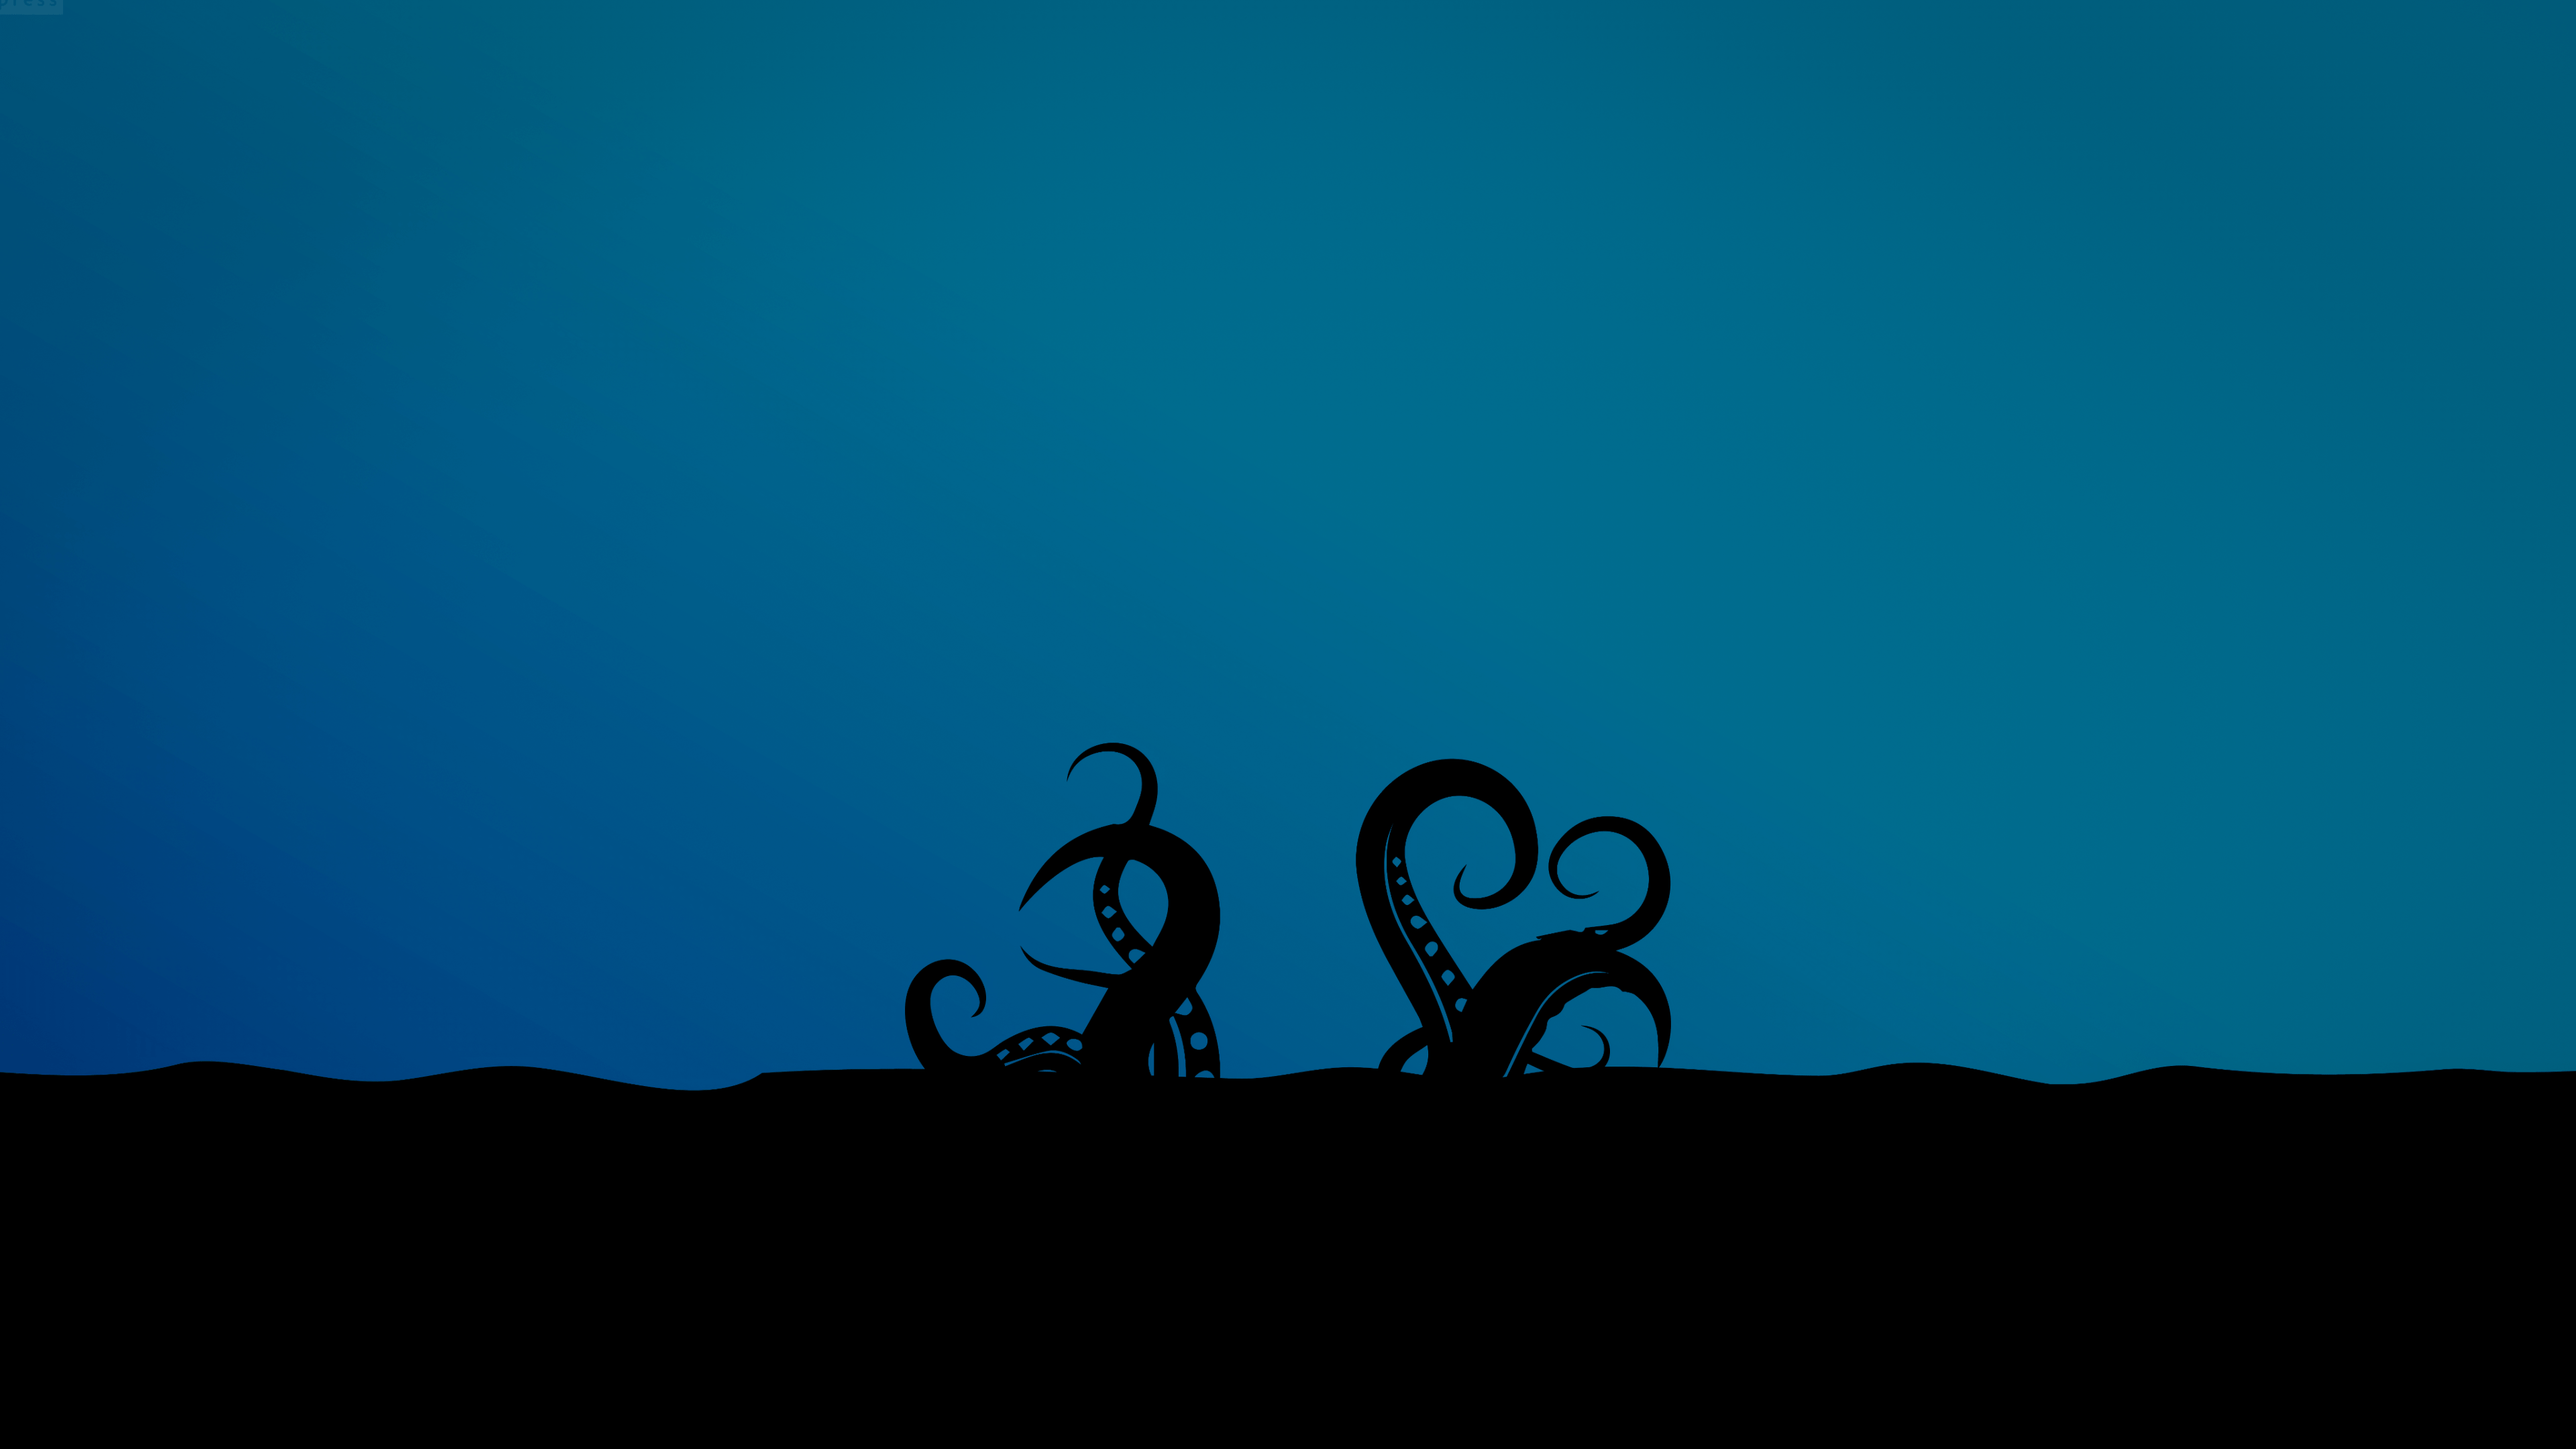
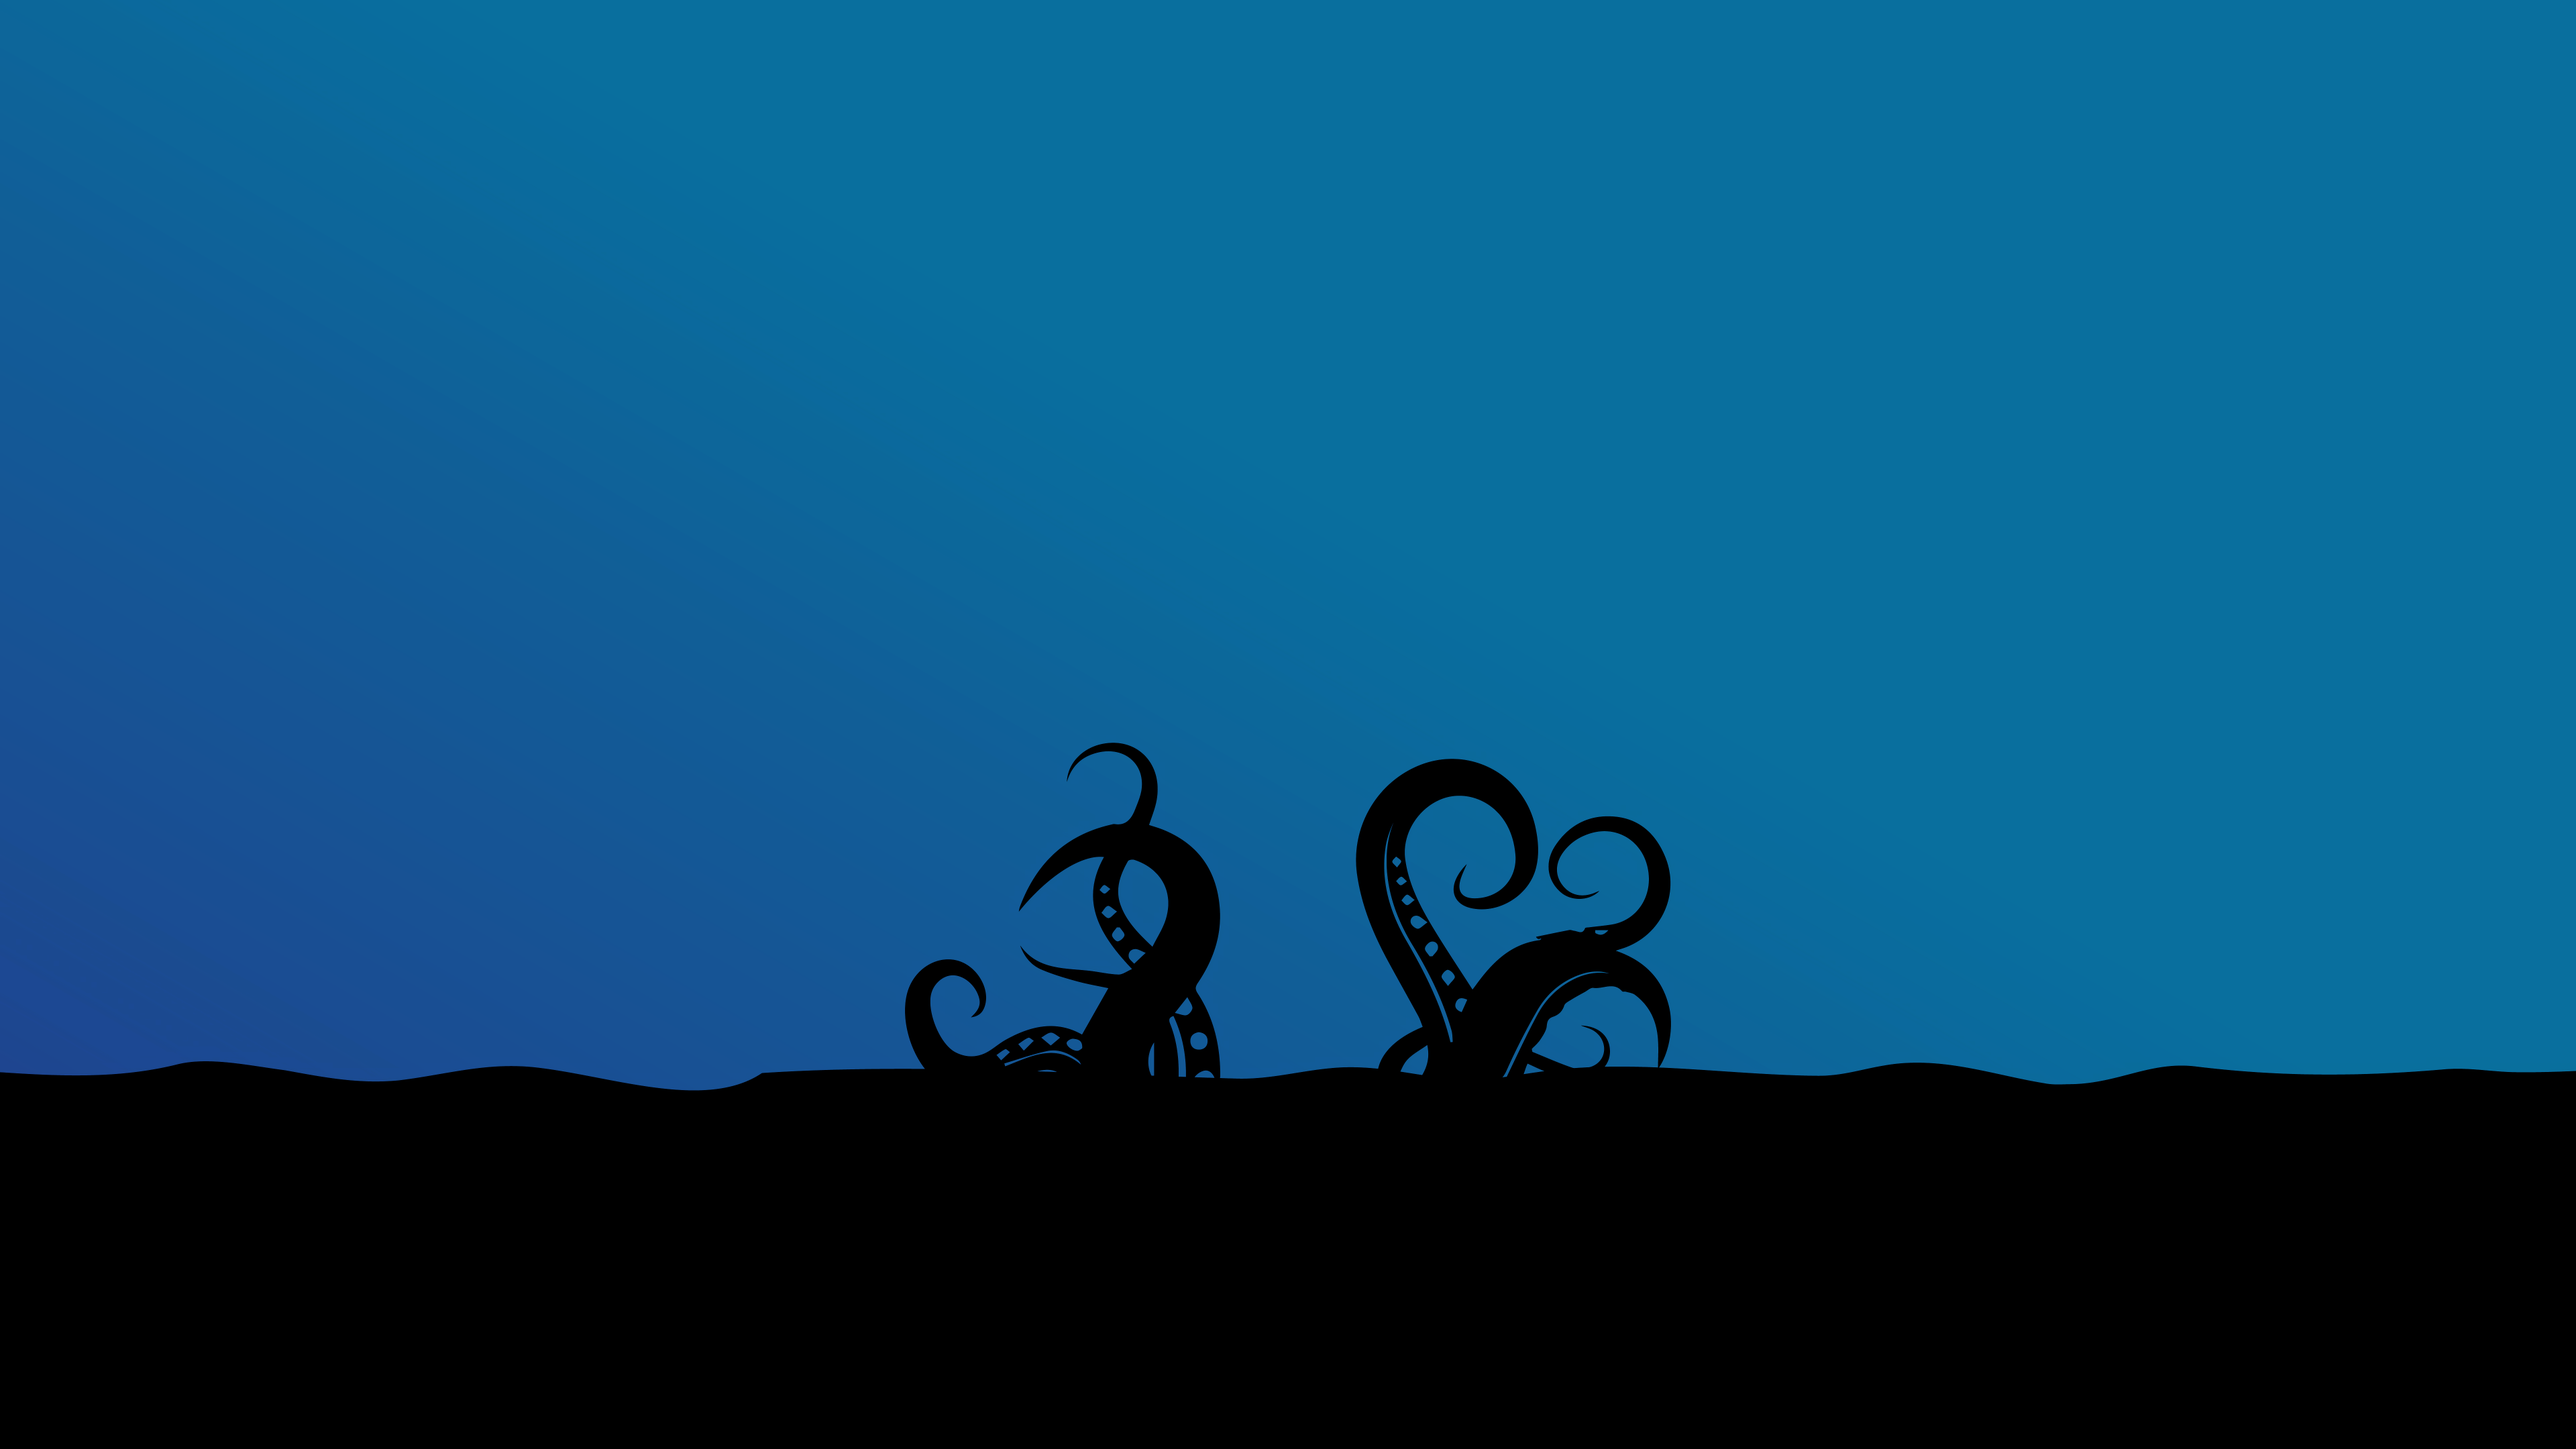
11.2

Changed region(s): [[0.0, 0.0, 1.0, 0.7444], [0.0, 0.4963, 0.2188, 0.7444]]

diff --git a/css/nextlevel.css b/css/nextlevel.css
@@ -21,7 +21,7 @@
 
 body {
   /* rgb(26, 99, 133) rgb(20, 97, 97) */
-  background: url('../images/octopus.png') no-repeat
+  background: url('../images/octoblue.png') no-repeat
   top center fixed;
   background-size: cover;
   text-align: center;
@@ -29,7 +29,7 @@ body {
 }
 
 body {
-  background-color: rgb(22, 102, 112)!important;
+  background-color: rgb(3, 129, 187)!important;
 }
 
 /* *************************** */
@@ -42,10 +42,10 @@ body {
   font-size: 20px;
 }
 .navbar-brand:hover {
-  color: rgb(214, 248, 253)!important;  
+  color: rgb(180, 210, 255)!important;  
 }
 .nav-link {
-  color: rgb(214, 248, 253)!important;  
+  color: rgb(180, 210, 255)!important;
   font-size: 20px;
 }
 
